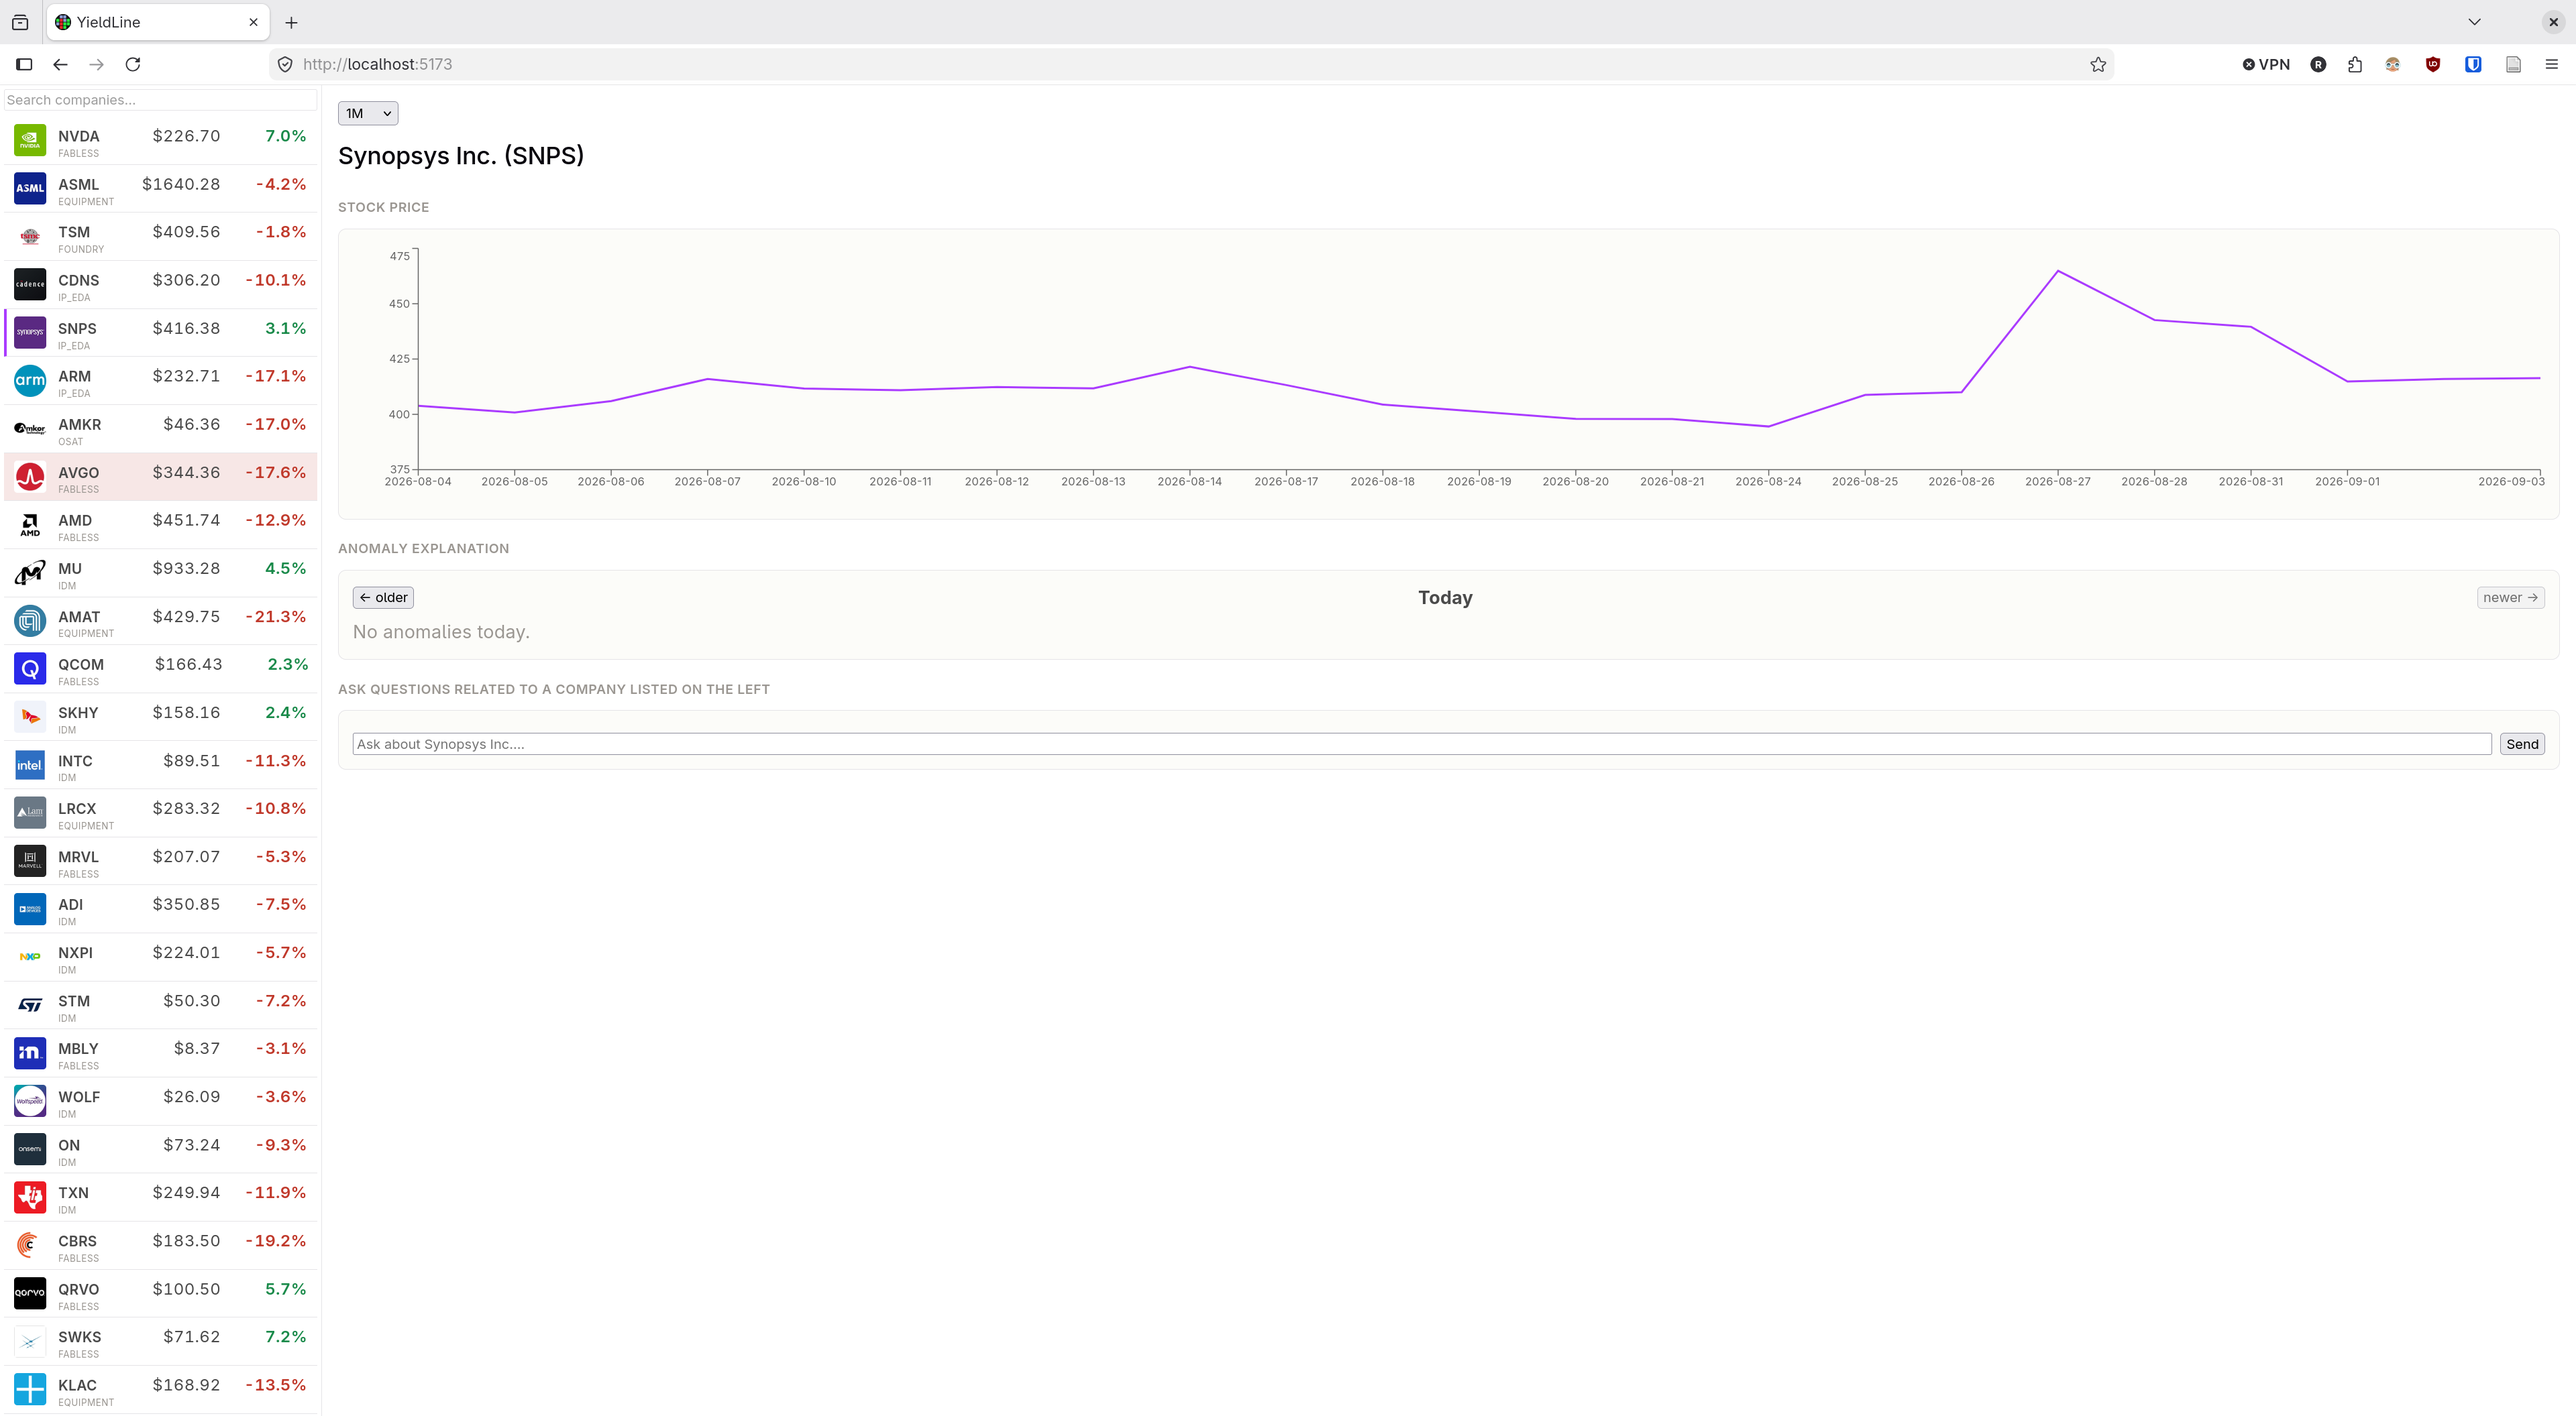
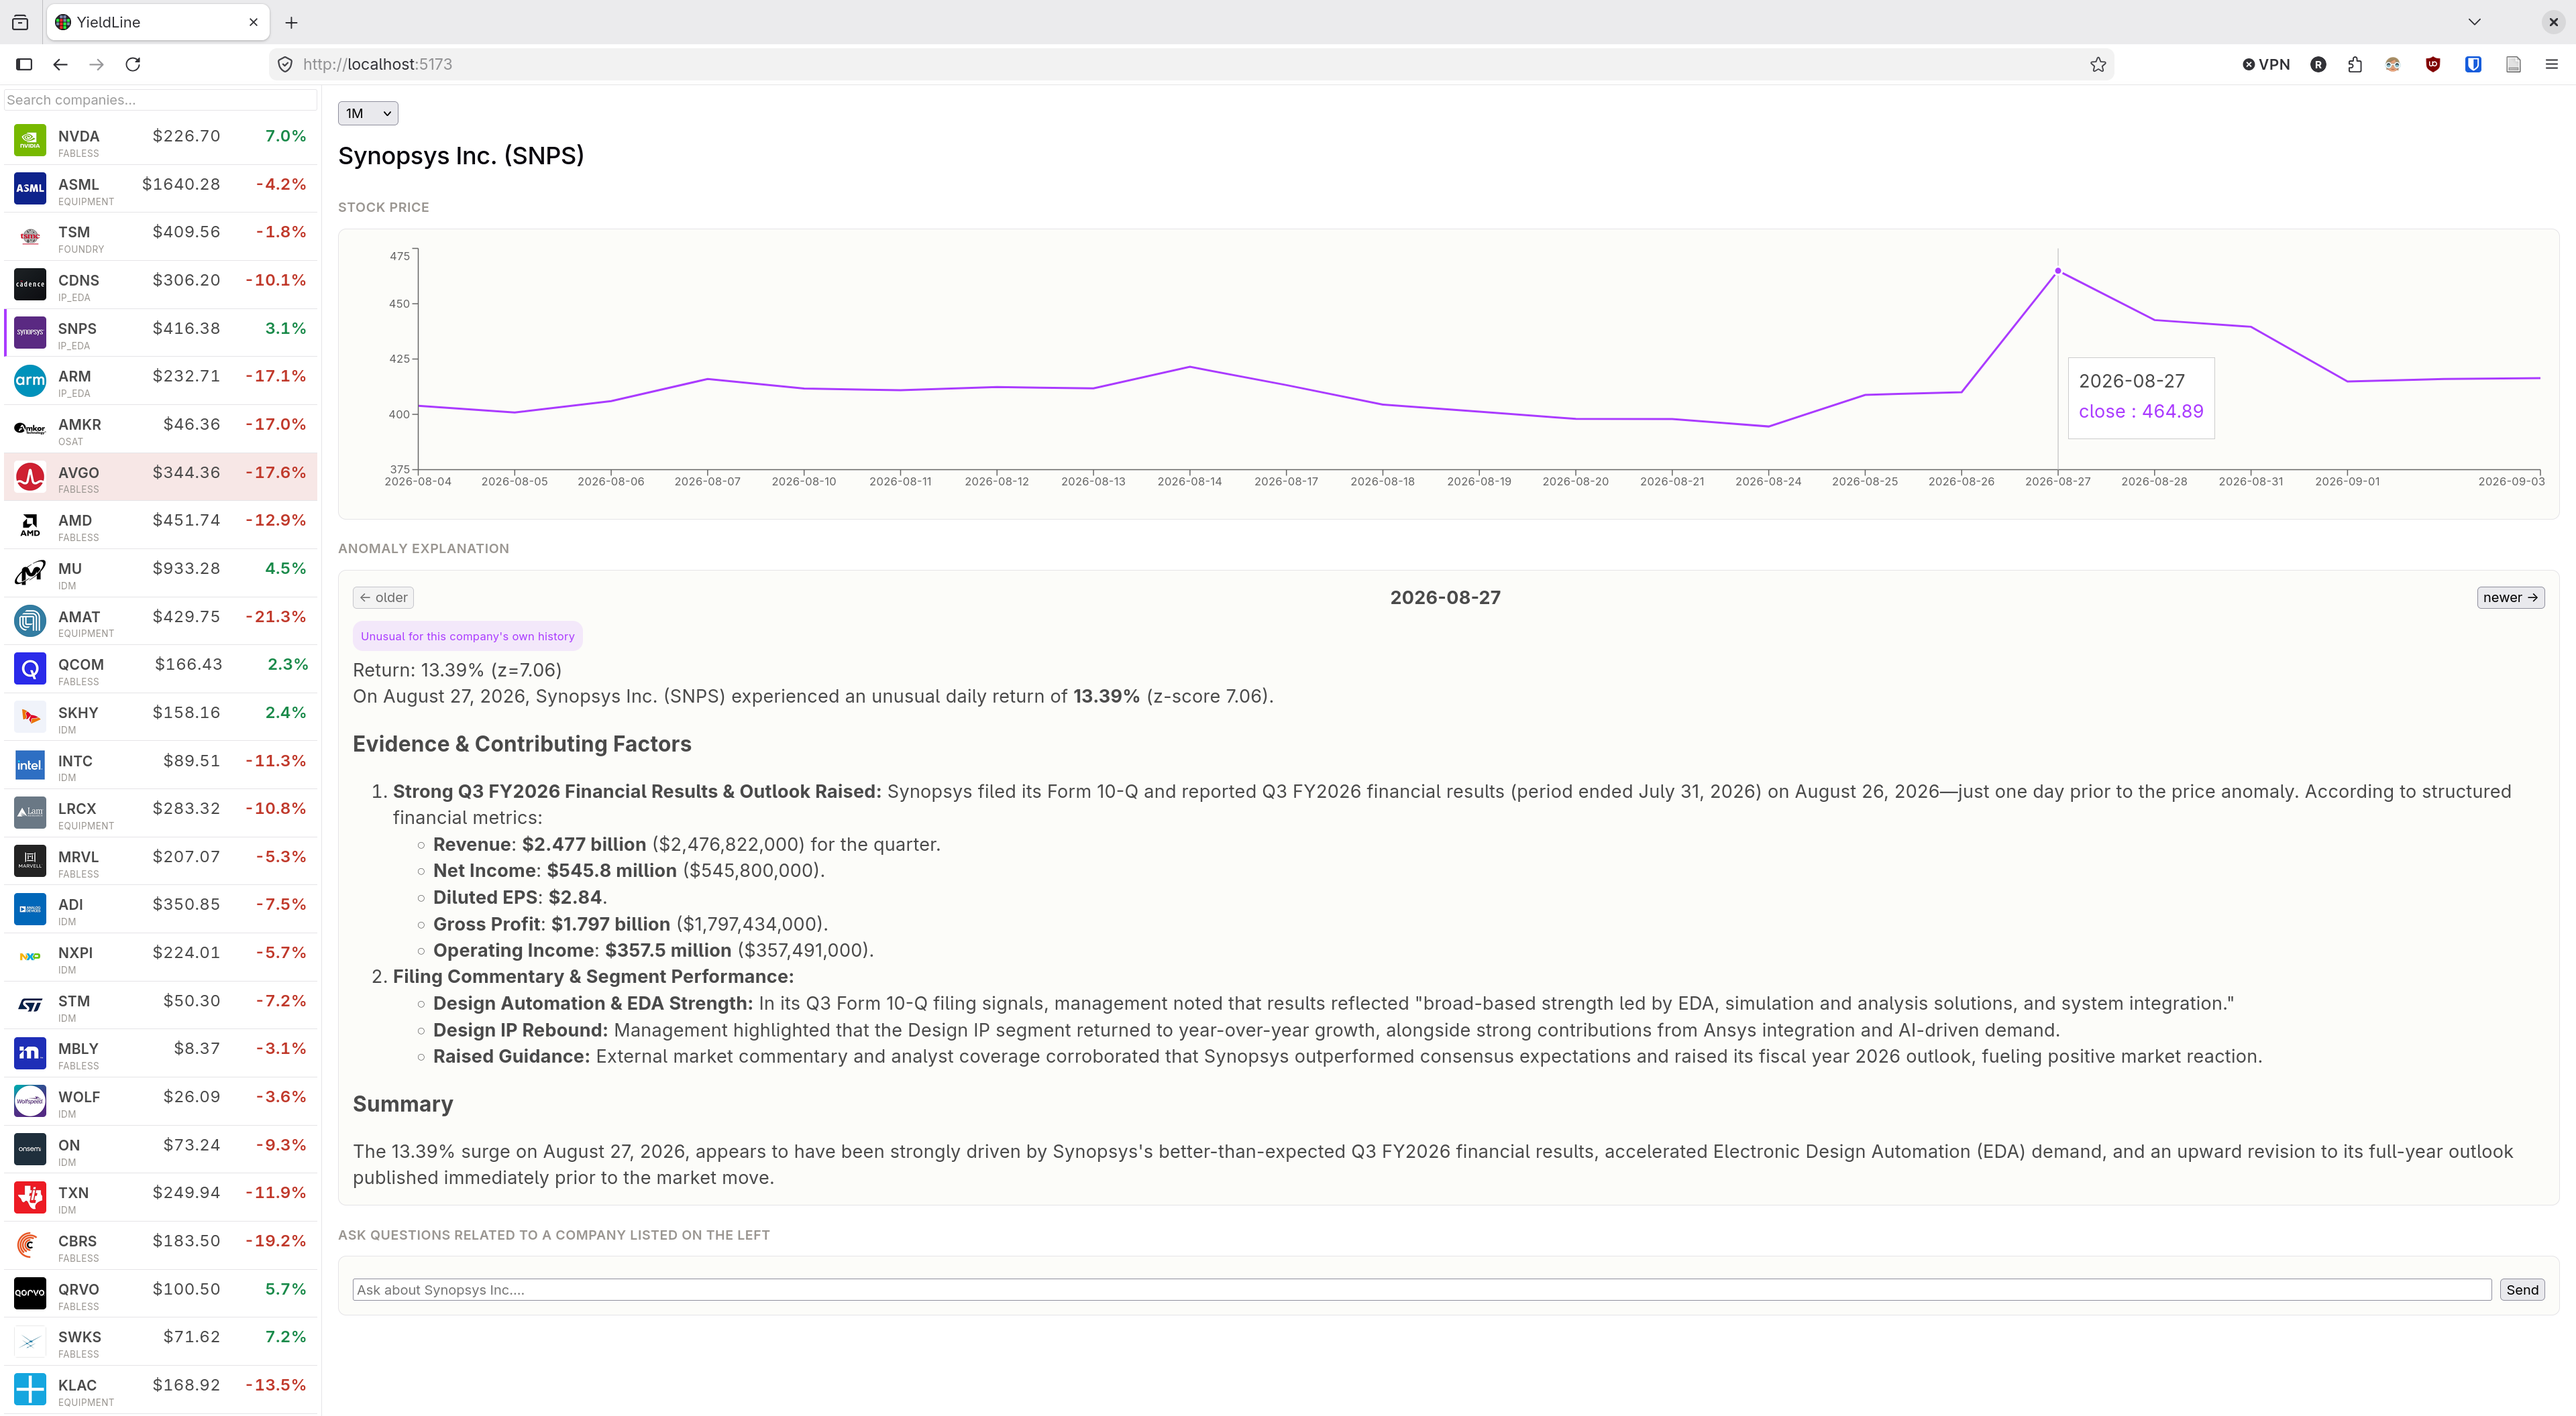
add features in assets and README

diff --git a/README.md b/README.md
@@ -10,6 +10,7 @@
 ## Contents
 
 - [What this is](#what-this-is)
+- [Features](#features)
 - [Architecture](#architecture)
 - [Tech stack](#tech-stack)
 - [Running locally](#running-locally)
@@ -24,12 +25,19 @@ I used to check the stock market most days and repeat the same cycle: scan a han
 
 YieldLine automates that loop. It tracks a curated graph of companies (currently semiconductor/adjacent-tech - nothing about the design is specific to that sector), ingests filings, prices, and related news daily, flags statistically unusual price moves, and uses an LLM agent to explain *why*, grounded in the company's own filings, recent news, and its relationships to other tracked companies (suppliers, competitors, customers).
 
-The companies are shown in the left pane, with a fuzzy search query to filter, and the main screen shows information regarding the selected company. At the top, the drop-down menu selects a timeframe, which updates the returns of the left pane to and the stock price chart to that range. Below the price chart are 2 sections: one to view anomaly explanations and another to ask questions to the agent. More details show in [Architecture](#architecture).
-
+The companies are shown in the left pane, with a fuzzy search query to filter, and the main screen shows information regarding the selected company. At the top, the drop-down menu selects a timeframe, which updates the returns of the left pane to and the stock price chart to that range. Below the price chart are 2 sections: one to view anomaly explanations and another to ask questions to the agent. More details show in [Features](#features).
 
 <p align="center">
-  <img src="assets/full_screen_3.png" width="800" alt="Screenshot with SNPS ticker selected">
+  <img src="assets/full_screen.png" width="800" alt="Screenshot with SNPS ticker selected">
 </p>
+
+## Features
+
+| Screenshot | Video |
+| --- | --- |
+| ![Feature 1](assets/feat1.png) | ![Feature 1](assets/feat1.gif) |
+| ![Feature 2](assets/feat2_1.png)<br>![Feature 2](assets/feat2_2.png) | ![Feature 2](assets/feat2.gif) |
+| ![Feature 3](assets/feat3.png) | ![Feature 3](assets/feat3.gif) |
 
 ## Architecture
 
